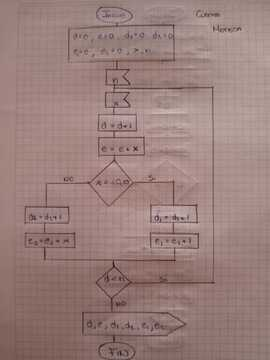
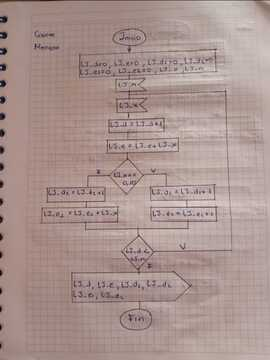
CONTADOR DE MONEDAS-SEGUNDA VERSION

diff --git a/lucasjavier/ACTIVIDAD-B2-C2/LucasJavier-CuentaMoneda.cpp b/lucasjavier/ACTIVIDAD-B2-C2/LucasJavier-CuentaMoneda.cpp
@@ -1,30 +1,47 @@
-#include <iostream>
-using namespace std ;
-int  main()
+// ================================================
+
+// ==> Nombre del programa: Contador de Monedas
+// ==> Archivo : LucasJavier-CuentaMoneda.cpp
+// ==>Autor: Javier Lucas
+// ==>Fecha de elaboración: 2022-04-02
+// ==>Fecha última actualización: 2022-05-19
+// ================================================ =
+#include<iostream>
+using namespace std;
+int  main ()
 {
-	int x, d= 0 , d1= 0 , d2= 0 ;
-	float n, e= 0 , e1= 0 , e2= 0 ;
-	cout<< "Ingrese el valor de monedas: " ;
-	cin>>x;
-	do {
-		cout<< " Escriba la cantidad de las monedas (0.10,0.25): " ;
-		cin>>n;
-		d=d+1;
-		e=e+n;
-		if (n==0.10){
-			d1=d1+1;
-			e1=e1+x;
+	int LJ_n, LJ_d= 0 , LJ_d1= 0 , LJ_d2= 0 ;
+	float LJ_x,LJ_e= 0 , LJ_e1= 0 , LJ_e2= 0 ;
+	cout<< "Digite el valor de monedas a contar :" <<endl;
+	cin>>LJ_n;
+	do{
+		cout<< " Valor de moneda (10,25): " ;
+		cin>>LJ_x;
+		LJ_d=LJ_d+ 1 ;
+		LJ_e=LJ_e+LJ_x;
+		if (LJ_x== 10 ){
+			LJ_d1=LJ_d1+ 1 ;
+			LJ_e1=LJ_e1+LJ_x;
 		} else {
-		d2=d2+1;
-		e2=e2+n;
+		LJ_d2=LJ_d2+ 1 ;
+		LJ_e2=LJ_e2+LJ_x;
 		}
-	} while (d<x);
-	cout<< " Mostrarse resultado: " <<endl;
-	cout<< "El numero de monedas incorporadas es: " <<d<<endl;
-	cout<< "El valor total del dinero contado es: " <<e<<endl;
-	cout<< " El numero de monedas de 0.10c incorporadas es: " <<d1<<endl;
-	cout<< " Total de dinero en monedas de 0.10c: " <<e1<<endl;
-	cout<< "Numero de monedas de 0,25c incorporadas: " <<d2<<endl;
-	cout<< "El valor del dinero en monedas de 0.25c es: " <<e2<<endl;
-	return 0;
+		
+		cout<<endl<< " //========================================= ======= " <<endl;
+cout<< " //==> Nombre del programa: Contador de Monedas " <<endl;
+cout<< " //==> Archivo : LucasJavier-CuentaMoneda.cpp " <<endl;
+cout<< " //==>Autor: Javier Lucas " <<endl;
+cout<< " //==>Fecha de elaboración: 2022-04-02 " <<endl;
+cout<< " //==>Fecha ultima actualización: 2022-05-19 " <<endl;
+cout<< " //============================================ ===== " <<endl;
+
+} while (LJ_d<LJ_n);
+	cout<< " Nos da como resultado: " <<endl;
+	cout<< " El valor de monedas digitadas: " <<LJ_d<<endl;
+	cout<< " El valor total del dinero sumado: " <<LJ_e<<endl;
+	cout<< " El valor de monedas de 10 digitadas: " <<LJ_d1<<endl;
+	cout<< " El valor total de monedas de 10: " <<LJ_e1<<endl;
+	cout<< " El valor de monedas de 25 digitadas: " <<LJ_d2<<endl;
+	cout<< " El valor total de monedas de 25: " <<LJ_e2<<endl;
+	return 0 ;
 }
